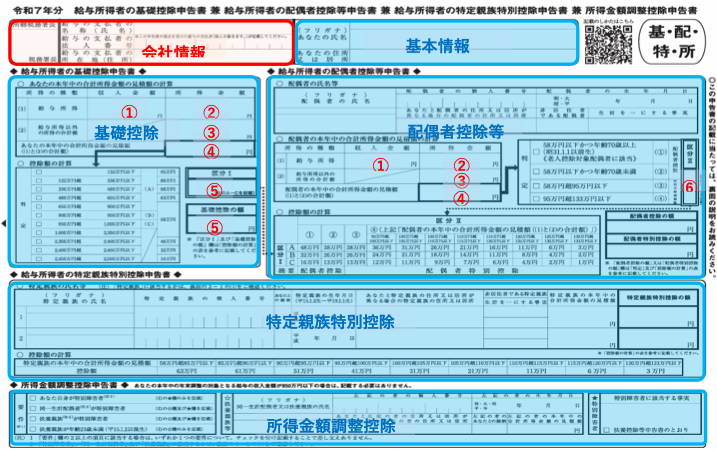
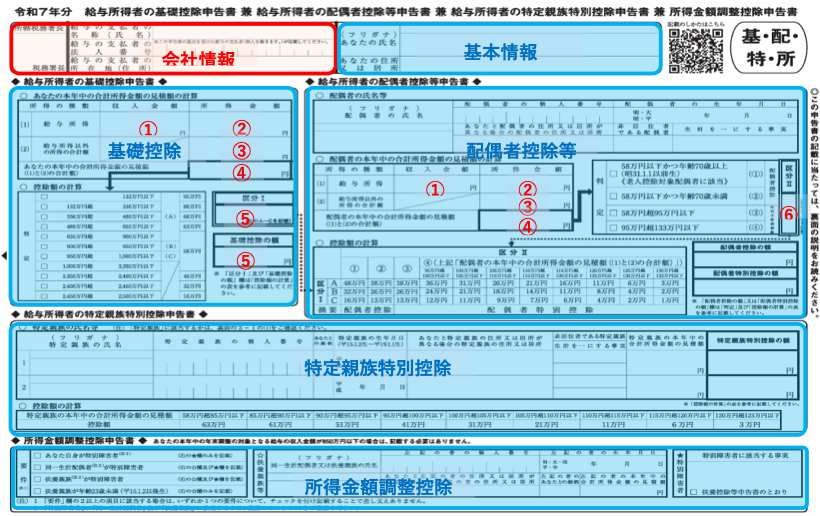
fix: adjusted layouts

diff --git a/content/article/salary-dependent-declaration-r8.md b/content/article/salary-dependent-declaration-r8.md
@@ -1,8 +1,8 @@
 ---
 title: "「令和8年分 給与所得者の扶養控除等（異動）申告書」書き⽅"
 date: 2025-10-25
-tags: ["給与・社保", "税金"]
-# weight: 
+tags: ["税金", "給与・社保"]
+weight: 6
 ---
 <!-- 〇扶 -->
 
@@ -15,7 +15,7 @@ tags: ["給与・社保", "税金"]
 19歳から23歳未満の親族を対象とする「特定親族特別控除」が新たに創設されました。<br>
 </span>
 <br>
-{{<imgx src="article_assets/salary-dependent-declaration-r8/fig1.png" style="max-width: 600px">}}
+{{<imgx src="article_assets/salary-dependent-declaration-r8/fig1.png" style="max-width: 780px">}}
 
 ## <span class="red">会社情報</span>
 会社（事業主）の方で必要事項を入力したうえで、従業員に配布します。<br>
@@ -44,22 +44,21 @@ tags: ["給与・社保", "税金"]
 　「その他」：19歳以上～23歳未満で合計所得⾦額が123万円超や、非居住者（⇒非居住者である親族）<br>
 <br>
 ## <span class="blue">障害者・寡婦・ひとり親・勤労学⽣</span><br>
-この欄は、従業員本人または扶養親族が障害者控除、寡婦控除、ひとり親控除、勤労学生控除のいずれかに該当する場合にチェックを行います。<br>
+この欄は、従業員本人又は扶養親族が障害者控除、寡婦控除、ひとり親控除、勤労学生控除のいずれかに該当する場合にチェックを行います。<br>
 これらの項目は、年末調整で控除を適用して課税対象額を減らし、所得税や住民税の負担を軽くするために重要です。<br>
-　「障害者」：障害者控除は、従業員本人又は同一生計配偶者、扶養親族が一般障害者や特別障害者に該当する場合に適用されます。<br>
-　　　同一生計配偶者とは、当年中の合計所得見積額が58万円以下で、生計を一にする配偶者を指します。<br>
-　　　但し、青色・白色事業専従者は対象外です。<br>
-　「寡婦」：以下のいずれかに当てはまる場合は寡婦控除の対象となります。<br>
-　　　- 離婚後、再婚しておらず、扶養親族がいて合計所得金額が500万円以下の人<br>
-　　　- 夫と死別後、再婚していない、又は夫の生死が不明で合計所得金額が500万円以下の人（この場合、扶養親族の有無は問わない）<br>
-　「ひとり親」：ひとり親控除は、性別や過去の婚姻歴に関係なく、次の全てを満たす場合に適用されます。<br>
-　　　- 当年12月31日時点で結婚していない、又は配偶者の生死が不明<br>
-　　　- 生計を一にする子（総所得見積額が58万円以下で、他人の同一生計配偶者や扶養親族になっていない）を持つ<br>
-　　　- 合計所得金額が500万円以下<br>
-　「勤労学⽣」：勤労学生控除は、従業員本人が以下の全てを満たす場合に適用されます。<br>
-　　　- 大学や高校、一定の専修学校・各種学校の学生、又は職業訓練法人の訓練生である<br>
-　　　- 当年中の所得見積額が85万円以下（給与のみの場合は年収150万円以下）<br>
-　　　- 給与所得等以外の所得が10万円以下<br>
+1. 「障害者」：障害者控除は、従業員本人又は同一生計配偶者、扶養親族が一般障害者や特別障害者に該当する場合に適用されます。<br>
+    - 同一生計配偶者とは、当年中の合計所得見積額が58万円以下で、生計を一にする配偶者を指します。但し、青色・白色事業専従者は対象外です。<br>
+2. 「寡婦」：以下のいずれかに当てはまる場合は寡婦控除の対象となります。<br>
+    - 離婚後、再婚しておらず、扶養親族がいて合計所得金額が500万円以下の人<br>
+    - 夫と死別後、再婚していない、又は夫の生死が不明で合計所得金額が500万円以下の人（この場合、扶養親族の有無は問わない）<br>
+3. 「ひとり親」：ひとり親控除は、性別や過去の婚姻歴に関係なく、次の全てを満たす場合に適用されます。<br>
+    - 当年12月31日時点で結婚していない、又は配偶者の生死が不明<br>
+    - 生計を一にする子（総所得見積額が58万円以下で、他人の同一生計配偶者や扶養親族になっていない）を持つ<br>
+    - 合計所得金額が500万円以下<br>
+4. 「勤労学⽣」：勤労学生控除は、従業員本人が以下の全てを満たす場合に適用されます。<br>
+    - 大学や高校、一定の専修学校・各種学校の学生、又は職業訓練法人の訓練生である<br>
+    - 当年中の所得見積額が85万円以下（給与のみの場合は年収150万円以下）<br>
+    - 給与所得等以外の所得が10万円以下<br>
 <br>
 ## <span class="blue">他の所得者が控除を受ける扶養親族等</span><br>
 この欄は、同じ世帯に複数の所得者がいる場合に記入が必要です。<br>

diff --git a/content/article/salary-declaration-r7.md b/content/article/salary-declaration-r7.md
@@ -1,14 +1,14 @@
 ---
 title: "「令和7年分 給与所得者の基・配・特・所申告書」書き方"
 date: 2025-10-25
-tags: ["給与・社保", "税金"]
-# weight: 3
+tags: ["税金", "給与・社保"]
+weight: 7
 ---
 <!-- 基配特所 -->
 
 次に、令和7年の基礎控除・配偶者控除等・特定親族特別控除・所得金額調整控除の申告書の記入方法を解説します。<br>
 
-{{<imgx src="article_assets/salary-declaration-r7/fig1.png" style="max-width: 600px">}}
+{{<imgx src="article_assets/salary-declaration-r7/fig1.png" style="max-width: 780px">}}
 
 ## <span class="blue">基礎控除</span>
 ①　給与所得の収入金額<br>
@@ -41,7 +41,8 @@ tags: ["給与・社保", "税金"]
 　「基礎控除」の「区分Ⅰ（⑤）」の判定結果と、「区分Ⅱ（⑥）」の結果を当てはめ、配偶者控除もしくは配偶者特別控除の額を確認し、該当する額を「配偶者控除の額」又は「配偶者特別控除の額」の欄に記入します。<br>
 <br>
 ## <span class="blue">特定親族特別控除</span>
-　特定親族とは、生計を一にする年齢19 歳以上23歳未満（平成15年1月2日〜平成19年1 月1日生まれ）の親族で、合計所得金額が 58 万円超 123 万円以下（給与のみの場合は給与収入が123万円超188万円以下）である人をいいます。<br>
+特定親族がいる場合は、必要事項を記入します。
+特定親族とは、生計を一にする年齢19 歳以上23歳未満（平成15年1月2日〜平成19年1 月1日生まれ）の親族で、合計所得金額が 58 万円超 123 万円以下（給与のみの場合は給与収入が123万円超188万円以下）である人をいいます。<br>
 　【給与収入からの各種控除額】の「特定親族特別控除」を参照してください。<br>
 　本年中の所得見積金額を記入し、「控除額の計算」から特定親族特別控除の額を当てはめ、控除額を記入します。<br>
 <br>

diff --git a/content/article/consumption-tax.md b/content/article/consumption-tax.md
@@ -1,13 +1,13 @@
 ---
 title: "消費税について"
 date: 2025-10-25
-tags: ["給与・社保", "税金"]
+tags: ["税金"]
 # weight: 
 ---
 <!-- 消費税 -->
 ## 免税事業者と課税事業者
 
-{{<imgx src="article_assets/consumption-tax/fig1.png" style="max-width: 650px">}}<br>
+{{<imgx src="article_assets/consumption-tax/fig1.png" style="max-width: 770px">}}<br>
 <br>
 ※1	法人は、資本金1,000万円以上であれば設立1期目から課税事業者になります。<br>
     <br>
@@ -109,7 +109,7 @@ tags: ["給与・社保", "税金"]
 		<td>年11回※4</td>
 	</tr>
 	<tr>
-		<td colspan="2" rowspan="3">中間納付税額※3<br>直前期間消費税額<br>地方消費税</td>
+		<td colspan="2" rowspan="3">中間納付税額※3<br>　直前期間消費税額<br>　(地方消費税)</td>
 		<td colspan="2" rowspan="3"><br>×6/12<br>+上記消費税額×22/78</td>
 		<td colspan="2" rowspan="3"><br>×3/12<br>+同左</td>
 		<td rowspan="3"><br>×1/12<br>+同左</td>

diff --git a/content/article/income-deductions.md b/content/article/income-deductions.md
@@ -1,7 +1,7 @@
 ---
 title: "給与収入からの各種控除額"
 date: 2025-09-16
-tags: ["給与・社保", "税金"]
+tags: ["税金", "給与・社保"]
 weight: 5
 ---
 <!-- 給与控除 -->
